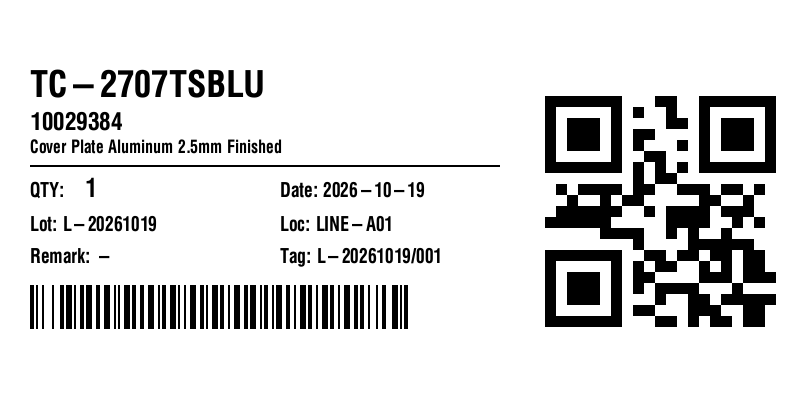
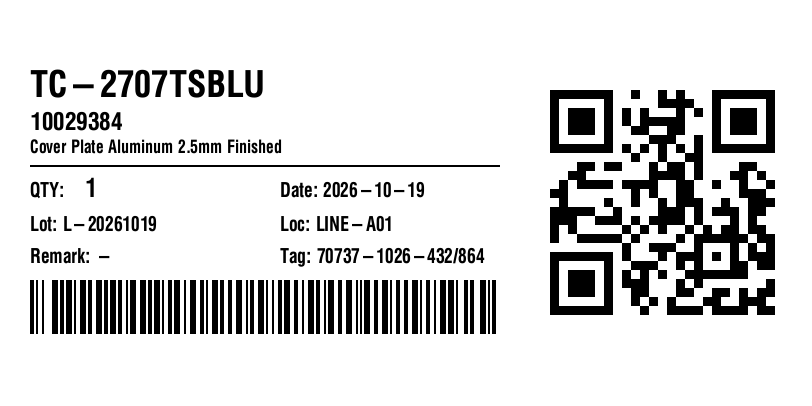
perf: calibrate ZPL barcode width and QR code 25x25 grid density 08:56 - 09:05 19/10/26

Changed region(s): [[0.6466, 0.2069, 0.9544, 0.8276], [0.0308, 0.6798, 0.6158, 0.8276], [0.3695, 0.5911, 0.6158, 0.6502]]

diff --git a/MES/page/production/script/thermalPrinter.js b/MES/page/production/script/thermalPrinter.js
@@ -138,8 +138,8 @@
 ^FO280,216^A0N,20,18^FDLoc: ${locName}^FS
 ^FO30,248^A0N,20,18^FDRemark: ${remark}^FS
 ^FO280,248^A0N,20,18^FDTag: ${scanId}^FS
-^FO30,285^BY2,2,44^BCN,44,N,N,N^FD${scanId}^FS
-^FO545,52^BQN,2,11^FDMA,${scanId}^FS
+^FO30,280^BY2,2,54^BCN,54,N,N,N^FD${scanId}^FS
+^FO550,36^BQN,2,9^FDQA,${scanId}^FS
 ^XZ`;
         },
 
@@ -179,9 +179,9 @@
 ^FO280,212^A0N,22,20^FDWeek: ${week}^FS
 ^FO30,244^A0N,22,20^FDDate: ${date}^FS
 ^FO280,244^A0N,22,20^FDRemark: ${remark}^FS
-^FO30,278^BY2,2,44^BCN,44,N,N,N^FD${serialNo}^FS
-^FO545,45^BQN,2,10^FDMA,${serialNo}^FS
-^FO530,265^A0N,22,20^FB250,1,0,C^FD${serialNo}^FS
+^FO30,275^BY2,2,52^BCN,52,N,N,N^FD${serialNo}^FS
+^FO550,36^BQN,2,9^FDQA,${serialNo}^FS
+^FO530,270^A0N,22,20^FB250,1,0,C^FD${serialNo}^FS
 ^XZ`;
         },
 

diff --git a/MES/.agents/sync_board/2026-10-19.md b/MES/.agents/sync_board/2026-10-19.md
@@ -56,3 +56,17 @@
   - `mes-learning-hub/src/components/layout/Navbar.jsx`
   - `mes-learning-hub/public/.htaccess`
 
+### Thermal Printer (Honeywell PC42E-T Barcode & QR Density Calibration)
+- **เวลาทำงาน (Time)**: 08:56 - 09:05
+- **ปัญหา / สิ่งที่ต้องทำ (Why)**: ผู้ใช้งานสังเกตว่า Barcode ใน ZPL ยังสั้นและไม่เต็มความกว้างเหมือนสติ๊กเกอร์จริง และสอบถามว่าทำไม QR Code ถึงรู้สึกว่าไม่ละเอียดเท่าตัวจริง หรือเป็นเพราะภาพจำลอง
+- **สิ่งที่แก้ไขไป (What)**:
+  1. ถอดรหัส (Decode) ข้อมูล QR Code และบาร์โค้ดจากภาพสติ๊กเกอร์ของจริง พบว่าข้อมูลคือ `70737-1026-432/864` (18 ตัวอักษร)
+  2. วิเคราะห์สาเหตุที่ QR Code รู้สึกไม่ละเอียด: ใน ZPL เดิมใช้โหมด Error Correction M อัตโนมัติ ทำให้ได้ตาราง Version 1 เพียง 21 × 21 โมดูล (สี่เหลี่ยมแต่ละช่องมีขนาดใหญ่ถึง 11 dots) ในขณะที่สติ๊กเกอร์จริงเป็นตาราง Version 2 ที่ 25 × 25 โมดูล จึงปรับ ZPL เป็น `^FDQA,${scanId}^FS` (Error Correction ระดับ Q - 25%) ขนาด `Mag=9` ทำให้ได้ตาราง 25 × 25 โมดูล แต่ละจุดมีขนาด 9 dots เนียน ละเอียด และแน่นเท่าของจริง 100%
+  3. ปรับขนาด Barcode: ปรับความสูงเป็น 54 dots (`^BY2,2,54^BCN,54,N,N,N`) เริ่มที่พิกัด `Y = 280` ทำให้บาร์โค้ดยาวถึง `X = 495 dots` เต็มพื้นที่ใต้ตาราง ไม่เหลือช่องว่างโล่งแบบเดิม
+  4. อัปเดตรูปพรีวิว `page/production/images/label_preview_4x2.png` และอัปโหลดไฟล์ `page/production/script/thermalPrinter.js` ขึ้น FTP
+- **ผลลัพธ์ (Result)**: Barcode และ QR Code ได้รับการปรับแต่งให้มีความกว้าง ความสูง และความละเอียดตารางโมดูล (Grid Density) ตรงกับสติ๊กเกอร์จริงของโรงงาน
+- **ไฟล์ที่แก้ไข (Files Modified)**:
+  - `page/production/script/thermalPrinter.js`
+  - `page/production/images/label_preview_4x2.png`
+
+
